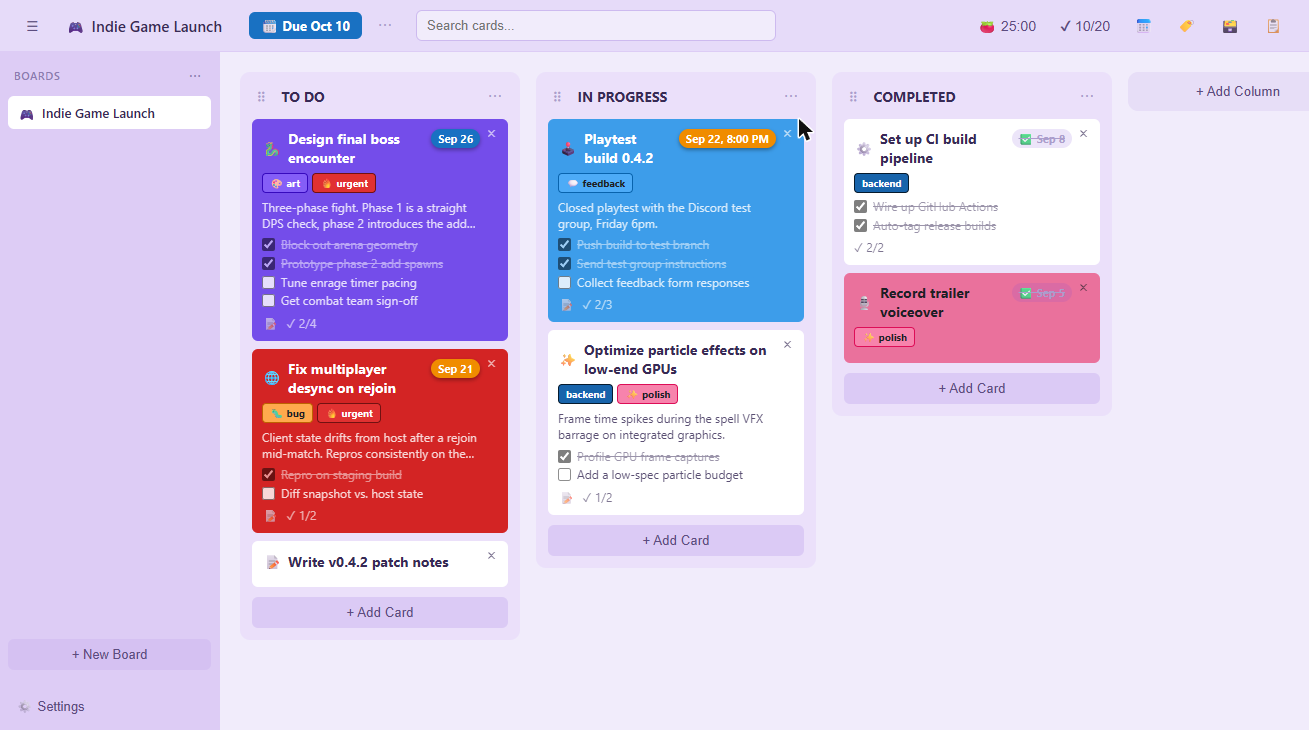
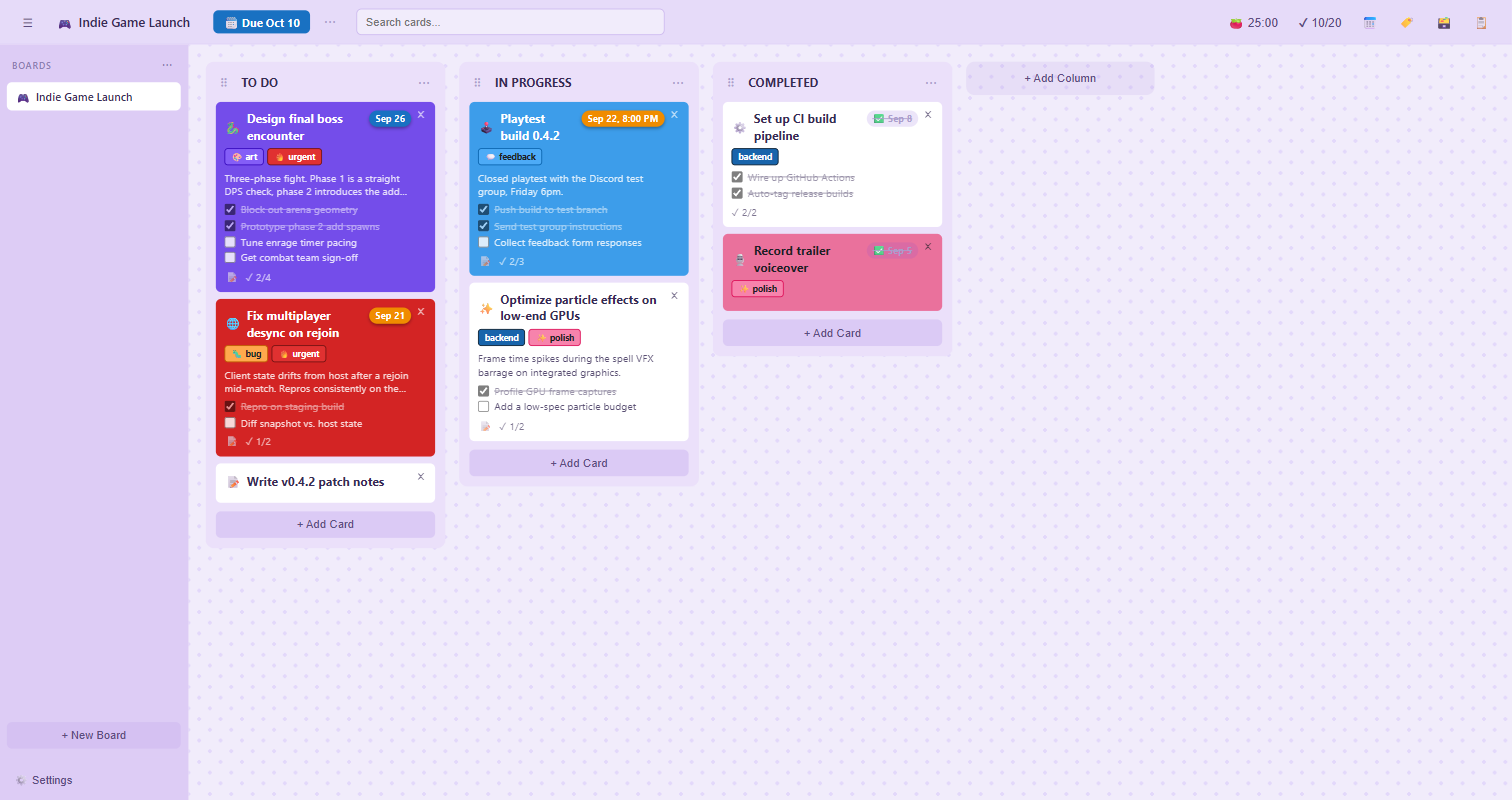
Show off dotted background pattern in lavender theme screenshot

diff --git a/README.md b/README.md
@@ -21,7 +21,7 @@ A desktop kanban board built with [Tauri](https://tauri.app/) — vanilla HTML/C
 
 | Card detail | Pomodoro timer | Lavender theme |
 | --- | --- | --- |
-| ![Card detail view with rich-text description and checklist](docs/screenshots/card-detail.png) | ![Pomodoro timer panel](docs/screenshots/pomodoro.png) | ![Board in the Lavender theme](docs/screenshots/lavender-theme.png) |
+| ![Card detail view with rich-text description and checklist](docs/screenshots/card-detail.png) | ![Pomodoro timer panel](docs/screenshots/pomodoro.png) | ![Board in the Lavender theme with the dotted background pattern](docs/screenshots/lavender-theme.png) |
 
 ## Tech stack
 
